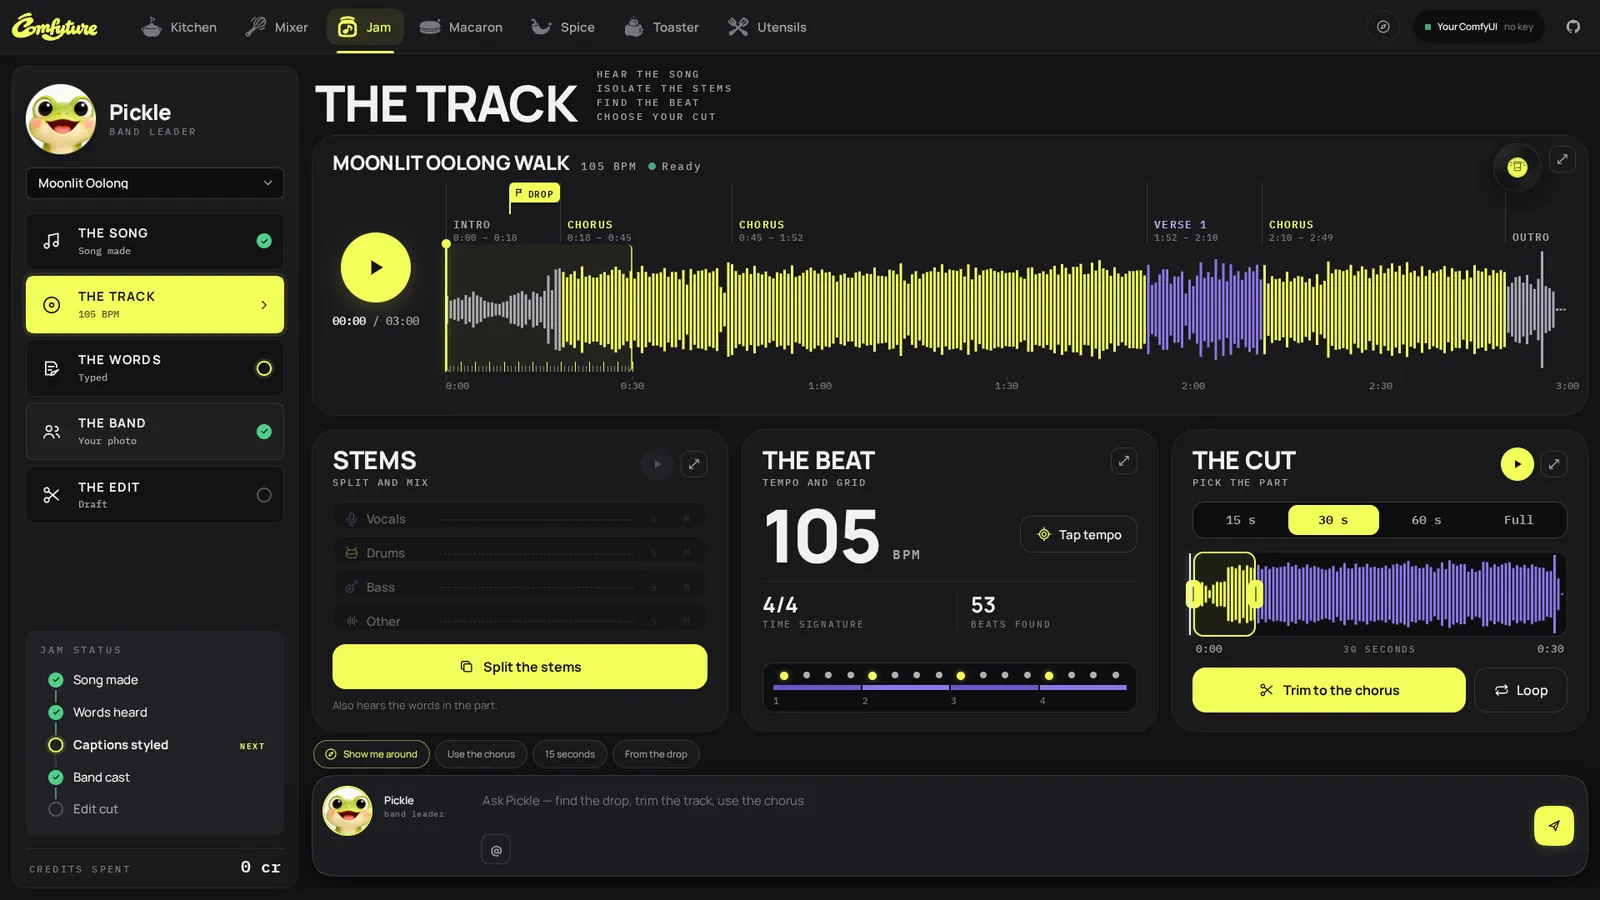
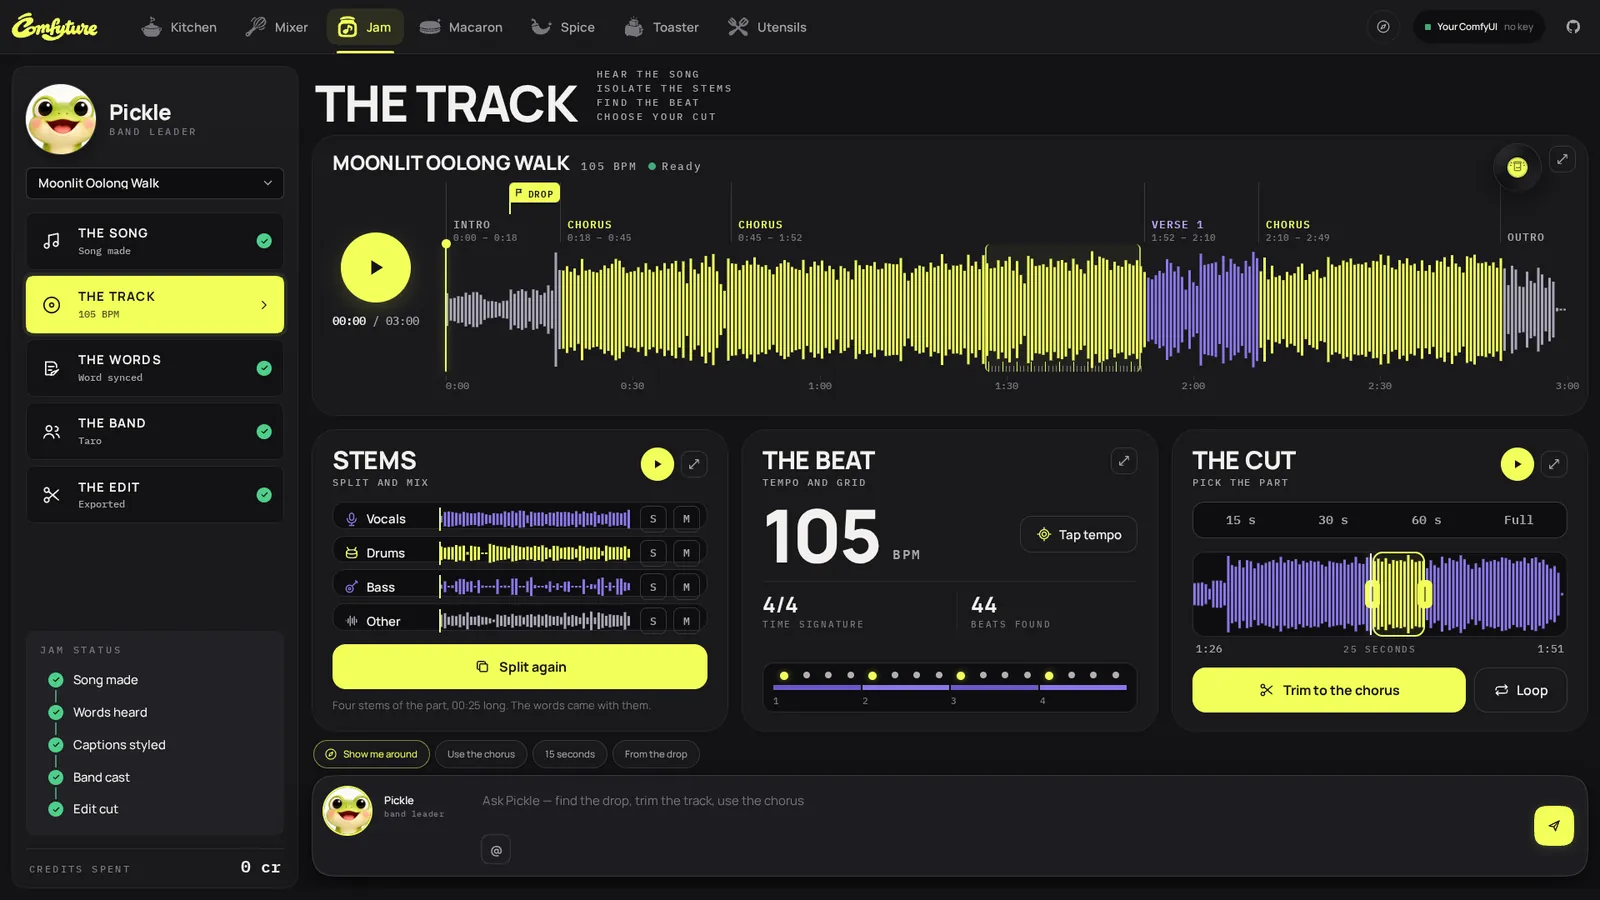
The storyboard's Jam frames are captured again on Jam's shipped example, Moonlit Oolong Walk: its track with sections, stems and beat, and Taro cast as the lead; no frame is left from a private project

diff --git a/docs/competition/storyboard.html b/docs/competition/storyboard.html
@@ -359,24 +359,24 @@
     <div class="body">
       <div class="frames">
         <figure>
-          <button class="shot" data-full="keyframes/k12-jam-track.webp"><img src="keyframes/k12-jam-track.webp" alt="Jam's track page: Moonlit Oolong Walk with its sections, 105 BPM and the beat grid"><span class="flags"><i class="flag recap">Re-capture</i></span><span class="ost">Jam · song → beat → lip-sync</span></button>
-          <figcaption><em>Moonlit Oolong Walk</em>, our ACE-Step song: sections, 105 BPM, the beat grid, read in the browser.</figcaption>
+          <button class="shot" data-full="keyframes/k12-jam-track.webp"><img src="keyframes/k12-jam-track.webp" alt="Jam's track page: Moonlit Oolong Walk with its sections, its four stems, 105 BPM and the beat grid"><span class="ost">Jam · song → beat → lip-sync</span></button>
+          <figcaption><em>Moonlit Oolong Walk</em>, Jam's shipped example and our ACE-Step song: its sections, its four stems, 105 BPM, the beat grid, the chorus picked.</figcaption>
         </figure>
         <figure>
           <button class="shot cover" data-full="keyframes/k14-jam-otter.webp"><img src="keyframes/k14-jam-otter.webp" alt="The otter singing under the moon, holding a bottle of oolong"><span class="flags"><i class="flag real">Real output</i></span><span class="ost">Lip-synced · LTX-2.5</span></button>
-          <figcaption>The otter sings it, lip-synced to the vocals, with its own sound.</figcaption>
+          <figcaption>Taro the otter sings it, lip-synced to the vocals, with his own sound.</figcaption>
         </figure>
         <figure class="wide">
-          <button class="shot" data-full="keyframes/k13-jam-band.webp"><img src="keyframes/k13-jam-band.webp" alt="Jam's band page: the otter cast as the performer, lip-sync on, three looks"><span class="flags"><i class="flag recap">Re-capture</i></span></button>
-          <figcaption>Alternative frame: the band, the otter cast as the performer, lip-sync on, three looks.</figcaption>
+          <button class="shot" data-full="keyframes/k13-jam-band.webp"><img src="keyframes/k13-jam-band.webp" alt="Jam's band page: Taro the otter cast as the lead, lip-sync on, three looks"></button>
+          <figcaption>Alternative frame: the band, Taro cast as the lead, lip-sync on, three looks.</figcaption>
         </figure>
       </div>
       <dl class="notes">
-        <div><dt>On screen</dt><dd>The track plays; its sections and beats light up as it goes; then the otter sings, full frame, with her own sound and no voice over her.</dd></div>
+        <div><dt>On screen</dt><dd>The track plays; its sections and beats light up as it goes; then Taro sings, full frame, with his own sound and no voice over him.</dd></div>
         <div><dt>Voice-over</dt><dd class="vo">(0:51–0:57) <q>Jam turns a song into a music video. The beat is read right in your browser.</q><span class="meta">16 words · about 6 s</span></dd></div>
         <div><dt>On-screen text</dt><dd><span class="ostx">JAM · SONG → BEAT → LIP-SYNC</span></dd></div>
         <div><dt>Into the next</dt><dd>Cut on a beat.</dd></div>
-        <div><dt>Note</dt><dd class="why">Mounir's own <em>Moonlit Oolong</em> project, copied into the lab data folder. Re-capture on the new Jam example. Never the Toc Toc or Hotel Lobby showcases: they play commercial recordings.</dd></div>
+        <div><dt>Note</dt><dd class="why">Captured on 25 October on a fresh install: <em>Moonlit Oolong Walk</em> is the video Jam opens first, with its words timed to the vocals and its finished film (both could stand in for the otter's close-up). Never the Toc Toc or Hotel Lobby showcases: they play commercial recordings.</dd></div>
       </dl>
     </div>
   </section>
@@ -671,7 +671,7 @@
       <li>Captured on 25 October in headless Chromium at 1920×1080, on a lab server with a fresh data folder, no Comfy key and a dead render address: no credit was spent and every request outside the machine was blocked.</li>
       <li>Frames of our cast's real takes (Ketkout, the otter, Meringue) were grabbed with ffmpeg. Everything shown is our own cast: no real people, no other creator's media.</li>
       <li>Staged frames: Crumpet's answer was written by hand; the page checked and applied it as it would a model's.</li>
-      <li>Kitchen's (beat 3), Toaster's (beat 4) and the tour's (beat 12) frames were captured again on the shipped examples on 25 October. Still to refresh, marked <i class="flag recap">Re-capture</i>: Jam's two frames, on Jam's new example once it lands.</li>
+      <li>Kitchen's (beat 3), Toaster's (beat 4), Jam's (beat 6) and the tour's (beat 12) frames were captured again on the shipped examples on 25 October, on a fresh install. Macaron's (beat 8) can still be refreshed on its Content workspace.</li>
       <li>Never on screen: the Giorno project or anything of <code>data/toasts</code>; the Toc Toc and Hotel Lobby showcases; any trend's original sound; a key or the header's balance.</li>
     </ul>
   </div>

diff --git a/docs/competition/VIDEO.md b/docs/competition/VIDEO.md
@@ -54,7 +54,7 @@ folder, no key and a dead render address: no credit was spent. Frames of our cas
 | `k08-toaster-build` | 4 | **Staged**: Crumpet's answer was written by hand (no model called), in a new draft beside the example; the app built the scene from it as from a real answer. With no key, *Toast it* reads "GPU time". |
 | `k09-toaster-render`, `k23-toaster-clay-to-render` | 4 | Toaster's shipped example *Crumpet's workbench*: its Render page, and its clay frame beside the finished still. The stills were drawn with GPT Image (free, through Codex) and the page labels them so: for the open-weights category, re-toast them with Qwen Image 2.1 (a few credits, **your yes**) or keep the labels out of frame. **No turnaround or 3D model exists yet**: one paid run (render, turnaround, 3D), or the voice-over drops "then into a real 3D model". |
 | `k10-spice-fx`, `k11-spice-comp`, `k22-spice-roto` | 5, 10 | The shipped *Paprika's portal* example: FX, Comp's wipe, Roto's SAM3 matte. |
-| `k12-jam-track`, `k13-jam-band` | 6 | Your own *Moonlit Oolong* project (ACE-Step song, our otter) copied into the lab. **Re-capture** on the new Jam example. Never use the Toc Toc or Hotel Lobby showcases: they play commercial recordings. |
+| `k12-jam-track`, `k13-jam-band` | 6 | *Moonlit Oolong Walk*, Jam's shipped example (our ACE-Step song, Taro the otter), on a fresh install: the track and the band. Never use the Toc Toc or Hotel Lobby showcases: they play commercial recordings. |
 | `k14-jam-otter` | 6 | Real output: the otter singing *Moonlit Oolong Walk* (lip-sync, LTX-2.5). |
 | `k15-mixer-shelf` | 7 | **Depends on D1**: the shelf shows song-titled trends. |
 | `k16-mixer-meringue` | 7 | Real output: Meringue's two Face Dance takes. **Their sound is the Face Dance trend's song: always muted**; the music bed plays instead. |
